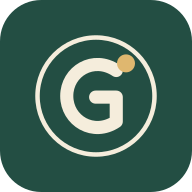
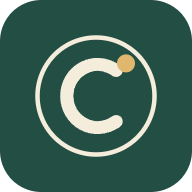
coeliac branding

diff --git a/src/client/App.tsx b/src/client/App.tsx
@@ -18,13 +18,13 @@ export function App({initial,path='/',search=''}:{initial:Bootstrap;path?:string
   useEffect(()=>{void refresh().catch(()=>{});setOffline(!navigator.onLine);const online=()=>setOffline(!navigator.onLine);const prompt=(e:Event)=>{e.preventDefault();setInstall(e);};window.addEventListener('online',online);window.addEventListener('offline',online);window.addEventListener('beforeinstallprompt',prompt);return()=>{window.removeEventListener('online',online);window.removeEventListener('offline',online);window.removeEventListener('beforeinstallprompt',prompt);};},[]);
   const links=[['/restaurants','Restaurants'],['/shops','Shops'],['/map','Map'],['/links','Useful links'],['/about','Our community']];
   if(member?.role==='admin')links.push(['/admin','Admin']);
-  return <><a className="skip-link" href="#main">Skip to content</a><header className="site-header"><div className="header-inner"><a href="/" className="brand" aria-label="glutenfree.mt home"><img className="brand-icon" src="/icon.svg" width="43" height="43" alt=""/><span>glutenfree.mt<span className="brand-locality">MALTA &amp; GOZO</span></span></a><nav className={menu?'main-nav open':'main-nav'} aria-label="Main navigation">{links.map(([href,label])=><a key={href} href={href} className={path===href?'active':''}>{label}</a>)}</nav><div className="header-actions"><a href="/suggest" className="button small-button"><Plus size={15}/> Add a place</a><a className="account-button" href="/account"><User size={17}/><span>{member?member.name.split(' ')[0]:'Sign in'}</span></a><button className="mobile-menu icon-button" onClick={()=>setMenu(!menu)} aria-label={menu?'Close navigation':'Open navigation'} aria-expanded={menu}>{menu?<X/>:<Menu/>}</button></div></div></header>
+  return <><a className="skip-link" href="#main">Skip to content</a><header className="site-header"><div className="header-inner"><a href="/" className="brand" aria-label="Coeliac.mt home"><img className="brand-icon" src="/icon.svg" width="43" height="43" alt=""/><span>Coeliac.mt<span className="brand-locality">MALTA &amp; GOZO</span></span></a><nav className={menu?'main-nav open':'main-nav'} aria-label="Main navigation">{links.map(([href,label])=><a key={href} href={href} className={path===href?'active':''}>{label}</a>)}</nav><div className="header-actions"><a href="/suggest" className="button small-button"><Plus size={15}/> Add a place</a><a className="account-button" href="/account"><User size={17}/><span>{member?member.name.split(' ')[0]:'Sign in'}</span></a><button className="mobile-menu icon-button" onClick={()=>setMenu(!menu)} aria-label={menu?'Close navigation':'Open navigation'} aria-expanded={menu}>{menu?<X/>:<Menu/>}</button></div></div></header>
     {offline&&<Notice>You’re offline. Connect to see current reviews and verification details.</Notice>}
     <main id="main">{path==='/'||path==='/map'?<Discover data={initial} path={path} search={search}/>:path.startsWith('/places/')?initial.detail?<PlacePage detail={initial.detail} member={member} adverts={initial.adverts} businessTypes={initial.business_types} glutenFreeItems={initial.gluten_free_item_catalog}/>:<NotFound/>:path.startsWith('/users/')?initial.profile?<PublicProfilePage profile={initial.profile}/>:<NotFound/>:path==='/account'?<Account member={member} data={initial} refresh={refresh}/>:path==='/suggest'?<div className="page narrow"><p className="eyebrow">PASS ON A GOOD FIND</p><h1>Make room for<br/><em>another place.</em></h1><PlaceForm member={member} businessTypes={initial.business_types} glutenFreeItems={initial.gluten_free_item_catalog}/></div>:path==='/moderation'?<Moderation member={member} data={initial}/>:path==='/admin'?<Admin member={member}/>:path==='/links'?<div className="page"><p className="eyebrow">A LITTLE HELP ALONG THE WAY</p><h1>Useful links.</h1><p className="lead">Local support, trusted organisations, and a few useful starting points.</p>{[...new Set(initial.links.map(l=>l.category))].map(category=><section className="detail-section" key={category}><h2>{category}</h2><div className="resource-grid">{initial.links.filter(l=>l.category===category).map(l=><a className="resource-card" key={l.id} href={l.url} target="_blank" rel="noreferrer"><BookOpen size={24}/><h3>{l.title}</h3><p>{l.description}</p><span className="text-link">Visit website <ArrowUpRight size={16}/></span></a>)}</div></section>)}</div>:path==='/about'?<About/>:path==='/privacy'?<Privacy/>:<NotFound/>}</main>
-    <footer className="site-footer"><div className="footer-main"><div><a href="/" className="footer-brand">glutenfree.mt<span>✳</span></a><p>Local knowledge. A shared table.<br/>Made for the coeliac community in Malta & Gozo.</p></div><div><p className="eyebrow">EXPLORE</p><a href="/">Find a place</a><a href="/links">Useful links</a><a href="/suggest">Suggest a place</a></div><div><p className="eyebrow">OUR COMMUNITY</p><a href="/about">About this project</a><a href="/privacy">Privacy & guidelines</a><button className="footer-install" onClick={async()=>{if(install){await install.prompt();setInstall(null);}else setInstallHelp(!installHelp);}}>Install on your phone ↗</button>{installHelp&&<p className="small">On iPhone, open your browser’s Share menu and choose Add to Home Screen. On Android, look for Install app in your browser menu.</p>}</div></div><div className="footer-bottom"><p>Independent and community-run. Not affiliated with CAM. Always confirm your requirements with the restaurant.</p><span>Shared with care <Heart size={13}/></span></div></footer>
+    <footer className="site-footer"><div className="footer-main"><div><a href="/" className="footer-brand">Coeliac.mt<span>✳</span></a><p>Local knowledge. A shared table.<br/>Made for the coeliac community in Malta & Gozo.</p></div><div><p className="eyebrow">EXPLORE</p><a href="/">Find a place</a><a href="/links">Useful links</a><a href="/suggest">Suggest a place</a></div><div><p className="eyebrow">OUR COMMUNITY</p><a href="/about">About this project</a><a href="/privacy">Privacy & guidelines</a><button className="footer-install" onClick={async()=>{if(install){await install.prompt();setInstall(null);}else setInstallHelp(!installHelp);}}>Install on your phone ↗</button>{installHelp&&<p className="small">On iPhone, open your browser’s Share menu and choose Add to Home Screen. On Android, look for Install app in your browser menu.</p>}</div></div><div className="footer-bottom"><p>Independent and community-run. Not affiliated with CAM. Always confirm your requirements with the restaurant.</p><span>Shared with care <Heart size={13}/></span></div></footer>
     <nav className="bottom-nav" aria-label="Mobile navigation">{([['/','Discover',Compass],['/map','Map',Map],['/links','Useful links',BookOpen],['/account','Account',User]] as const).map(([href,label,Icon])=><a href={href} key={href} className={path===href?'active':''}><Icon size={20}/><span>{label}</span></a>)}</nav>
   </>;
 }
 function NotFound(){return <div className="page empty-state"><h1>We couldn’t find that page.</h1><p>There’s still a whole island of places to explore.</p><a className="button primary" href="/">Back to the directory</a></div>;}
-function About(){return <article className="page prose"><p className="eyebrow">LOCAL KNOWLEDGE, SHARED</p><h1>A place at<br/><em>the table.</em></h1><p className="lead">glutenfree.mt is an independent community project helping people find places that cater for coeliacs in Malta and Gozo.</p><h2>Built from community experience</h2><p>This directory began as a shared list of places and feedback. We keep the original comments labelled as imported community feedback, without inventing dates or ratings. New community reviews, photos, and owner replies are checked by moderators before they appear. Admin contributions publish immediately.</p><h2 id="verification">What “Verified by CAM” means here</h2><p>Site admins manually record whether a place has CAM verification. The badge is separate from community ratings and verified restaurant ownership. This website is not run by or affiliated with CAM. Check the displayed verification date and confirm your requirements directly with the business.</p><h2>Honest experiences, useful details</h2><p>A star rating describes a member’s overall visit. It is not a safety certification. Details about menus and preparation come from community contributions and can change. Both positive and negative experiences are welcome.</p><h2>Owners are part of the conversation</h2><p>Admins manually verify restaurant representatives. Owners can reply to feedback on their linked places; replies are labelled and moderated. They cannot change other people’s reviews or verify their own business.</p><h2>Keeping it going</h2><p>Occasional clearly labelled adverts may help cover running costs. Sponsorship does not change rankings, ratings, or verification.</p><a className="button primary" href="/suggest">Share a place <ArrowUpRight size={16}/></a></article>;}
+function About(){return <article className="page prose"><p className="eyebrow">LOCAL KNOWLEDGE, SHARED</p><h1>A place at<br/><em>the table.</em></h1><p className="lead">Coeliac.mt is an independent community project helping people find places that cater for coeliacs in Malta and Gozo.</p><h2>Built from community experience</h2><p>This directory began as a shared list of places and feedback. We keep the original comments labelled as imported community feedback, without inventing dates or ratings. New community reviews, photos, and owner replies are checked by moderators before they appear. Admin contributions publish immediately.</p><h2>Honest experiences, useful details</h2><p>A star rating describes a member’s overall visit. It is not a safety certification. Details about menus and preparation come from community contributions and can change. Both positive and negative experiences are welcome.</p><h2>Owners are part of the conversation</h2><p>Admins manually verify restaurant representatives. Owners can reply to feedback on their linked places; replies are labelled and moderated. They cannot change other people’s reviews or verify their own business.</p><h2>Keeping it going</h2><p>Occasional clearly labelled adverts may help cover running costs. Sponsorship does not change rankings, ratings, or verification.</p><a className="button primary" href="/suggest">Share a place <ArrowUpRight size={16}/></a></article>;}
 function Privacy(){return <article className="page prose"><p className="eyebrow">COMMUNITY GUIDELINES</p><h1>Share with care.</h1><h2>What we ask of contributors</h2><p>Describe your own experience honestly. Be specific and respectful, avoid personal attacks, and upload only photos you have permission to share. Do not include anyone’s private contact details or health information in public feedback. Owners must not review their own businesses.</p><h2>Before your contribution appears</h2><p>Community reviews, photos, new places, corrections, and owner replies need moderator approval. Admin contributions publish immediately. Edits are checked again; the previous approved version stays visible while an edit is pending. You can report published content for review.</p><h2>Your account and contributions</h2><p>We store your email, display name, sign-in information, and contributions to operate your account and moderate the directory. Your display name is public beside approved feedback; your email and ownership-check details are private. Admins can access account information to manage the community.</p><h2>Your profile</h2><p>Your display name and avatar are public, including on previous reviews and owner replies. Profile changes appear immediately. Conditions and symptom frequency are optional, self-reported information. They remain private unless you choose to share them on your public profile. You can stop sharing, clear your answers, change your avatar, or remove your uploaded photo in Account. Uploaded avatars are cropped and re-encoded to remove metadata; we store only a small version, never your original. Replaced or deleted avatar files are removed, with failed removals retried by the daily cleanup. Deleting your account removes its profile and health answers.</p><h2>Photos and location</h2><p>Photos are resized and re-encoded to remove metadata before storage. Your device location is requested only when you select Near me and is used in your browser for approximate distances. It is not saved to your profile.</p><h2>Cookies and external services</h2><p>Sign-in uses essential session cookies. Google sign-in, external map providers, restaurant links, and sponsor links involve the respective providers. We do not include advertising trackers or analytics scripts.</p><h2>Removing your data</h2><p>Use Account to withdraw pending submissions, remove reviews from public view, or delete your account. Account deletion removes your login and public personal contributions; rejected photos are cleaned up by a daily job. Minimal moderation records may remain without your account identity.</p><p className="notice">Before public launch, the community operator must add their contact details and final retention policy here.</p></article>;}

diff --git a/src/client/PlacePage.tsx b/src/client/PlacePage.tsx
@@ -17,7 +17,7 @@ export function PlacePage({detail,member,adverts,businessTypes,glutenFreeItems}:
     <div className="detail-photo">{cover?<img src={`/photos/${cover.id}`} alt={cover.caption}/>:<Illustration type={p.type} large/>}<button className="button photo-button" onClick={()=>setModal({kind:'photo'})}><Camera size={16}/> Add photos</button></div>
     {owner&&<CoverForm admin={member?.role==='admin'} placeId={p.id} photos={detail.photos} currentPhoto={cover?.id}/>}
     {(detail.photos.length>1||(member?.role==='admin'&&detail.photos.length>0))&&<div className="photo-gallery">{detail.photos.map(ph=><figure key={ph.id}><a href={`/photos/${ph.id}`} target="_blank" rel="noreferrer"><img src={`/photos/${ph.id}?size=thumb`} alt={ph.caption} loading="lazy"/></a><figcaption>{ph.caption} <button aria-label="Report photo" onClick={()=>setModal({kind:'report',id:ph.id,target:'photo'})}><Flag size={12}/></button>{member?.role==='admin'&&<DeletePhotoButton id={ph.id} caption={ph.caption}/>}</figcaption></figure>)}</div>}
-    <div className="detail-layout"><div>{p.description&&<section className="detail-section"><h2>About this place</h2><p className="place-description">{p.description}</p></section>}<section className="detail-section"><p className="eyebrow">BEFORE YOU BOOK</p><h2>Good to know</h2><div className="info-note"><ShieldCheck size={22}/><div><strong>Gluten-free menu information</strong><ul className="menu-summary">{(p.menu_options||['unknown']).map(value=><li key={value}>{value==='unknown'?'Menu options not yet confirmed':MENU_OPTIONS.find(option=>option.value===value)?.label}</li>)}</ul>{p.menu_info&&<p>{p.menu_info}</p>}<span className="small muted">Community-provided information. Confirm your requirements with the place when booking.</span></div></div>{!!p.cam_verified&&<p className="small muted">CAM status manually checked by a site admin on {p.cam_verified_at?.slice(0,10)}. This community website is independent of CAM. <a href="/about#verification">About verification</a></p>}</section>
+    <div className="detail-layout"><div>{p.description&&<section className="detail-section"><h2>About this place</h2><p className="place-description">{p.description}</p></section>}<section className="detail-section"><p className="eyebrow">BEFORE YOU BOOK</p><h2>Good to know</h2><div className="info-note"><ShieldCheck size={22}/><div><strong>Gluten-free menu information</strong><ul className="menu-summary">{(p.menu_options||['unknown']).map(value=><li key={value}>{value==='unknown'?'Menu options not yet confirmed':MENU_OPTIONS.find(option=>option.value===value)?.label}</li>)}</ul>{p.menu_info&&<p>{p.menu_info}</p>}<span className="small muted">Community-provided information. Confirm your requirements with the place when booking.</span></div></div>{!!p.cam_verified&&<p className="small muted">CAM status manually checked by a site admin on {p.cam_verified_at?.slice(0,10)}. This community website is independent of CAM.</p>}</section>
     <section className="detail-section"><div className="section-heading"><div><p className="eyebrow">FROM OUR COMMUNITY</p><h2>Experiences at the table</h2></div><span className="review-count">{detail.feedback.length}</span></div>{!detail.feedback.length&&<div className="empty-state compact"><MessageCircle/><h3>Be the first to share</h3><p>A few words about your visit can help the next person.</p></div>}{detail.feedback.map(f=><article className="review" key={f.id}><div className="review-heading">{f.kind==='imported'&&<div className="avatar">✳</div>}<div><AuthorIdentity author={f.kind==='imported'?null:f.author} name={f.kind==='imported'?'Imported community feedback':f.author_name}/>{f.kind==='review'&&!!f.author?.conditions?.length&&<p className="small muted">Dietary conditions: {f.author.conditions.join(' ? ')}</p>}<p className="small muted">{f.kind==='imported'?'From the original community directory':f.visit_date?`Visited ${f.visit_date}`:'Community review'}</p></div>{f.rating!==null&&<Rating rating={f.rating}/>}</div><p className="review-body">{f.body}</p><div className="review-actions">{owner&&<button onClick={()=>setModal({kind:'reply',id:f.id})}><MessageCircle size={14}/> Reply as owner</button>}<button onClick={()=>setModal({kind:'report',id:f.id,target:'feedback'})}><Flag size={13}/> Report</button></div>{detail.replies.filter(r=>r.feedback_id===f.id).map(r=><div className="owner-reply" key={r.id}><div className="reply-identity"><AuthorIdentity author={r.author} name={r.author_name}/><span className="badge">Owner reply</span></div><p>{r.body}</p><button className="text-link small" onClick={()=>setModal({kind:'report',id:r.id,target:'reply'})}>Report reply</button></div>)}</article>)}</section><Sponsor ad={adverts.find(a=>a.placement==='detail')}/></div>
     <aside className="place-sidebar">{!!detail.branches?.length&&<section className="sidebar-card"><h3>Other locations</h3><p className="small">Reviews and verification apply to each branch separately.</p>{detail.branches.map(branch=><a className="sidebar-link" key={branch.id} href={`/places/${branch.slug}`}>{branch.branch_name||branch.locality||branch.name} <ArrowUpRight size={16}/></a>)}</section>}<section className="sidebar-card"><h3>Visit or order</h3>{p.premises==='none'&&<p>No public premises</p>}{!!p.services?.length&&<p>{p.services.join(' · ')}</p>}{p.advance_orders==='yes'&&<p>Advance orders required</p>}{p.advance_orders==='no'&&<p>Advance orders not required</p>}{p.ordering_info&&<p className="preserve-lines">{p.ordering_info}</p>}<p className="price-large">{p.price_applicability==='not_applicable'?'':p.price_min===null?'Price to be confirmed':'€'.repeat(priceBand(p.price_max??p.price_min))}</p><p>{priceLabel(p)}</p>{p.price_applicability!=='not_applicable'&&p.price_min!==null&&<p className="small muted">{p.price_basis}. Estimate updated {p.price_updated?.slice(0,10)||'date unknown'}.</p>}<hr/><p className="location"><MapPin size={17}/>{p.address||p.locality||'Address to be confirmed'}, {p.island}</p>{p.premises!=='none'&&<a className="button full" href={directions} target="_blank" rel="noreferrer">Open Google Maps <ArrowUpRight size={16}/></a>}{([['website','Website'],['menu_url','View menu'],['social_url','Social page']] as const).map(([key,label])=>p[key]&&<a className="sidebar-link" key={key} href={p[key]} target="_blank" rel="noreferrer">{label}<ArrowUpRight size={16}/></a>)}{p.phone&&<a className="sidebar-link" href={`tel:${p.phone.replace(/[^+\d]/g,'')}`}>Call the place <Phone size={16}/></a>}</section><section className="sidebar-card soft"><h3>Keep local knowledge growing</h3><p className="small">Something changed? Help keep this place up to date.</p><button className="text-link" onClick={()=>setModal({kind:'correction'})}>{owner?'Edit place details':'Suggest a correction'} <Pencil size={14}/></button></section>{!owner&&<button className="owner-claim" onClick={()=>setModal({kind:'owner_claim'})}>Is this your business? Request owner access</button>}</aside></div>
     {modal&&<Modal title={({review:'Share your experience',photo:'Share a photo',reply:'Reply as the owner',report:'Report content',correction:owner?'Edit place details':'Suggest a correction',owner_claim:'Verify your owner access'} as Record<string,string>)[modal.kind]} onClose={()=>setModal(null)}>{!member?<SignInPrompt/>:modal.kind==='review'?owner?<Notice>Owners cannot rate their own businesses. You can reply to community feedback instead.</Notice>:<ReviewForm admin={member?.role==='admin'} place={p}/>:modal.kind==='photo'?<PhotoForm admin={member?.role==='admin'} placeId={p.id}/>:modal.kind==='correction'?<PlaceForm member={member} place={p} businessTypes={businessTypes} glutenFreeItems={glutenFreeItems}/>:<MessageForm admin={member?.role==='admin'} kind={modal.kind as 'reply'|'report'|'owner_claim'} placeId={p.id} targetId={modal.id} targetType={modal.target}/>}</Modal>}

diff --git a/src/client/Discover.tsx b/src/client/Discover.tsx
@@ -24,9 +24,9 @@ export function Discover({data,path,search}:{data:Bootstrap;path:string;search:s
   }),[categoryPlaces,filters,sort,position,data.gluten_free_item_catalog]);
   const qs=new URLSearchParams();for(const [k,v]of Object.entries(filters))if(v)qs.set(k,String(v));
   function nearMe(){setGeoError('');if(!navigator.geolocation){setGeoError('Location is unavailable in this browser. Choose a locality instead.');return;}setLocating(true);navigator.geolocation.getCurrentPosition(p=>{setPosition({lat:p.coords.latitude,lng:p.coords.longitude});setSort('nearby');setLocating(false);if(!data.places.some(p=>p.coordinates_checked))setGeoError('Your location is ready. Business map pins still need checking; browse by locality for now.');},()=>{setLocating(false);setGeoError('Location was unavailable or not allowed. You can still search by locality.');},{timeout:10000,maximumAge:60000});}
-  const heading=category==='shop'?'Gluten-free shops and suppliers in Malta & Gozo':category==='restaurant'?'Gluten-free restaurants and places to eat in Malta & Gozo':'Gluten-free places in Malta & Gozo';
+  const heading=category==='shop'?'Coeliac-friendly shops and suppliers in Malta & Gozo':category==='restaurant'?'Coeliac-friendly restaurants and places to eat in Malta & Gozo':'Coeliac-friendly places in Malta & Gozo';
   return <>
-    <section id="discover" className="discover"><header className="directory-intro"><h1>{heading}</h1><p>Find safe places for celiacs to eat, shop, and order gluten free food, with experiences shared by the coeliac community.</p></header>
+    <section id="discover" className="discover"><header className="directory-intro"><h1>{heading}</h1><p>Discover places to eat, shop and order food, with experiences shared by the coeliac community.</p></header>
       <div className="search-bar"><label className="search-input"><Search size={20}/><span className="sr-only">Search places</span><input placeholder="A place, locality or gluten-free food…" value={filters.q} onChange={e=>update({q:e.target.value})}/>{filters.q&&<button aria-label="Clear search" onClick={()=>update({q:''})}><X size={16}/></button>}</label><button className="near-button" onClick={nearMe} disabled={locating}><Navigation size={17}/>{locating?'Locating…':'Near me'}</button></div>
       <div className="filter-row"><div className="island-tabs" aria-label="Filter by island">{['','Malta','Gozo'].map(i=><button key={i} className={filters.island===i?'active':''} onClick={()=>update({island:i,locality:''})}>{i||'Both islands'}</button>)}</div><label className="filter-select"><span className="sr-only">Locality</span><select value={filters.locality} onChange={e=>update({locality:e.target.value})}><option value="">All localities</option>{localities.map(l=><option key={l}>{l}</option>)}</select></label><button className={`filter-button ${advanced?'active':''}`} onClick={()=>setAdvanced(!advanced)} aria-expanded={advanced}><SlidersHorizontal size={16}/> More filters</button></div>
       {advanced&&<div className="advanced-filters">{([['cuisine','Cuisine',CUISINES],['type','Business type',catalog.map(t=>t.key)],['service','Service',SERVICES],['price','Price band',['1','2','3','4']]] as const).map(([key,label,options])=><label key={key}>{label}<select value={filters[key]} onChange={e=>update({[key]:e.target.value})}><option value="">Any {label.toLowerCase()}</option>{options.map(o=><option key={o} value={o}>{key==='price'?'€'.repeat(Number(o)):data.business_types?.find(t=>t.key===o)?.label||o}</option>)}</select></label>)}{category!=='shop'&&<label>Gluten-free item<select value={filters.item} onChange={e=>update({item:e.target.value})}><option value="">Any gluten-free item</option>{data.gluten_free_item_catalog?.map(item=><option key={item.key} value={item.key}>{item.label}</option>)}</select></label>}<button className="text-link" onClick={()=>update({q:'',island:'',locality:'',cuisine:'',type:'',service:'',price:'',item:''})}>Clear all filters</button><p className="small muted">Price bands: € under €15 · €€ €15–24 · €€€ €25–39 · €€€€ €40+. Main meal, excluding drinks; estimates may vary.</p></div>}

diff --git a/public/offline.html b/public/offline.html
@@ -1,1 +1,1 @@
-<!doctype html><html lang="en"><head><meta charset="utf-8"><meta name="viewport" content="width=device-width,initial-scale=1"><meta name="theme-color" content="#234e43"><title>Offline — glutenfree.mt</title><style>body{background:#f8f6f0;color:#234e43;font:17px/1.7 system-ui;margin:0}main{max-width:480px;margin:15vh auto;padding:28px}h1{font:600 40px system-ui}a,button{color:inherit}button{padding:12px 20px;border:1px solid;border-radius:8px;background:transparent;font:inherit}</style></head><body><main><img src="/icon.svg" width="64" height="64" alt="glutenfree.mt"><h1>A little out of reach.</h1><p>You’re offline. Connect again to see current restaurant information, reviews, and CAM verification.</p><button onclick="location.reload()">Try again</button><p><a href="/links">Previously visited useful links</a></p></main></body></html>
+<!doctype html><html lang="en-GB"><head><meta charset="utf-8"><meta name="viewport" content="width=device-width,initial-scale=1"><meta name="theme-color" content="#234e43"><title>Offline — Coeliac.mt</title><style>body{background:#f8f6f0;color:#234e43;font:17px/1.7 system-ui;margin:0}main{max-width:480px;margin:15vh auto;padding:28px}h1{font:600 40px system-ui}a,button{color:inherit}button{padding:12px 20px;border:1px solid;border-radius:8px;background:transparent;font:inherit}</style></head><body><main><img src="/icon.svg" width="64" height="64" alt="Coeliac.mt"><h1>A little out of reach.</h1><p>You’re offline. Connect again to see current restaurant information, reviews, and CAM verification.</p><button onclick="location.reload()">Try again</button><p><a href="/links">Previously visited useful links</a></p></main></body></html>

diff --git a/tests/place-editing.e2e.ts b/tests/place-editing.e2e.ts
@@ -324,9 +324,9 @@ test('compact directory introduction keeps search visible on desktop and mobile'
 }, testInfo) => {
   await setup(page);
   for (const [path, heading] of [
-    ['/', 'Gluten-free restaurants and places to eat in Malta & Gozo'],
-    ['/restaurants', 'Gluten-free restaurants and places to eat in Malta & Gozo'],
-    ['/map', 'Gluten-free places in Malta & Gozo'],
+    ['/', 'Coeliac-friendly restaurants and places to eat in Malta & Gozo'],
+    ['/restaurants', 'Coeliac-friendly restaurants and places to eat in Malta & Gozo'],
+    ['/map', 'Coeliac-friendly places in Malta & Gozo'],
   ]) {
     for (const width of [1280, 768, 375, 320]) {
       await page.setViewportSize({ width, height: 800 });
@@ -335,7 +335,7 @@ test('compact directory introduction keeps search visible on desktop and mobile'
         heading,
       );
       await expect(page.locator('.directory-intro p')).toHaveText(
-        'Find safe places for celiacs to eat, shop, and order gluten free food, with experiences shared by the coeliac community.',
+        'Discover places to eat, shop and order food, with experiences shared by the coeliac community.',
       );
       await expect(page.locator('.welcome-panel, .hero-scene, .community-strip')).toHaveCount(0);
       await expect(page.getByRole('link', { name: 'Find your next favourite' })).toHaveCount(0);

diff --git a/src/server/auth.ts b/src/server/auth.ts
@@ -25,7 +25,7 @@ export function createAuth(env: Bindings, requestUrl?: string) {
           return;
         }
         if (!env.RESEND_API_KEY || !env.EMAIL_FROM) throw new Error('Email sign-in is not configured');
-        const response = await fetch('https://api.resend.com/emails', { method: 'POST', headers: { Authorization: `Bearer ${env.RESEND_API_KEY}`, 'Content-Type': 'application/json' }, body: JSON.stringify({ from: env.EMAIL_FROM, to: email, subject: 'Your glutenfree.mt sign-in link', text: `Sign in to glutenfree.mt:\n\n${url}\n\nThis link expires in 10 minutes. If you did not request it, ignore this email.` }) });
+        const response = await fetch('https://api.resend.com/emails', { method: 'POST', headers: { Authorization: `Bearer ${env.RESEND_API_KEY}`, 'Content-Type': 'application/json' }, body: JSON.stringify({ from: env.EMAIL_FROM, to: email, subject: 'Your Coeliac.mt sign-in link', text: `Sign in to Coeliac.mt:\n\n${url}\n\nThis link expires in 10 minutes. If you did not request it, ignore this email.` }) });
         if (!response.ok) throw new Error('Unable to send sign-in email');
       },
     })],

diff --git a/src/server/index.tsx b/src/server/index.tsx
@@ -25,7 +25,7 @@ app.get('*',async c=>{
   const initial=await bootstrap(c.env,c.req.url);
   const template=await c.env.ASSETS.fetch(new Request(new URL('/index.html',c.req.url)));
   if(!template.ok)return c.text('Run npm run build before starting the production preview.',503);
-  const title=initial.profile?`${initial.profile.name} — glutenfree.mt`:initial.detail?`${initial.detail.place.name} — glutenfree.mt`:'glutenfree.mt — Good food. Shared knowledge.';
+  const title=initial.profile?`${initial.profile.name} — Coeliac.mt`:initial.detail?`${initial.detail.place.name} — Coeliac.mt`:'Coeliac.mt — Coeliac-friendly restaurants in Malta & Gozo';
   const markup=renderToString(<App initial={initial} path={path} search={new URL(c.req.url).search}/>);
   const json=JSON.stringify(initial).replace(/</g,'\\u003c');
   const html=(await template.text()).replace(/<title>.*?<\/title>/,`<title>${escape(title)}</title>`).replace('<!--app-->',markup).replace('<!--bootstrap-->',`<script>window.__BOOTSTRAP__=${json}</script>`);

diff --git a/index.html b/index.html
@@ -1,14 +1,14 @@
 <!doctype html>
-<html lang="en">
+<html lang="en-GB">
   <head>
     <meta charset="UTF-8" />
     <meta name="viewport" content="width=device-width, initial-scale=1" />
     <meta name="theme-color" content="#234e43" />
-    <meta name="description" content="Find places to eat gluten free in Malta and Gozo. An independent directory built by the coeliac community." />
+    <meta name="description" content="Find coeliac-friendly restaurants, shops and places to eat in Malta and Gozo, with experiences shared by the coeliac community." />
     <link rel="icon" href="/icon.svg" type="image/svg+xml" />
     <link rel="apple-touch-icon" href="/icon-192.png" />
     <link rel="manifest" href="/manifest.webmanifest" />
-    <title>glutenfree.mt — Good food. Shared knowledge.</title>
+    <title>Coeliac.mt — Coeliac-friendly restaurants in Malta & Gozo</title>
   </head>
   <body><div id="root"><!--app--></div><!--bootstrap--><script type="module" src="/src/client/main.tsx"></script></body>
 </html>

diff --git a/src/server/api.ts b/src/server/api.ts
@@ -170,5 +170,5 @@ api.post('/admin/adverts',async c=>{const raw=await c.req.json();const v=adSchem
 api.get('/admin/export',async c=>{
   const rows=(await c.env.DB.prepare('SELECT * FROM places ORDER BY name').all()).results;
   const csv=(v:unknown)=>`"${String(v??'').replace(/^[=+@-]/,"'$&").replaceAll('"','""')}"`;
-  const keys=Object.keys(rows[0]||{});c.header('Content-Disposition','attachment; filename="glutenfree-mt-places.csv"');c.header('Content-Type','text/csv; charset=utf-8');return c.body('\uFEFF'+[keys.map(csv).join(','),...rows.map(r=>keys.map(k=>csv(r[k])).join(','))].join('\r\n'));
+  const keys=Object.keys(rows[0]||{});c.header('Content-Disposition','attachment; filename="coeliac-mt-places.csv"');c.header('Content-Type','text/csv; charset=utf-8');return c.body('\uFEFF'+[keys.map(csv).join(','),...rows.map(r=>keys.map(k=>csv(r[k])).join(','))].join('\r\n'));
 });

diff --git a/public/sw.js b/public/sw.js
@@ -1,4 +1,4 @@
-const CACHE = 'glutenfree-mt-shell-v2';
+const CACHE = 'coeliac-mt-shell-v3';
 const SHELL = ['/offline.html', '/icon.svg', '/icon-192.png', '/manifest.webmanifest'];
 self.addEventListener('install', event => { event.waitUntil(caches.open(CACHE).then(cache => cache.addAll(SHELL))); self.skipWaiting(); });
 self.addEventListener('activate', event => { event.waitUntil(caches.keys().then(keys => Promise.all(keys.filter(key => key !== CACHE).map(key => caches.delete(key)))).then(() => self.clients.claim())); });

diff --git a/README.md b/README.md
@@ -1,6 +1,8 @@
-# glutenfree.mt
+# Coeliac.mt
 
-An independent community directory for Malta and Gozo. The current brand and primary domain are **glutenfree.mt**. Configuration also allows `https://coeliac.mt` during the domain transition; both domains must be connected to the Worker. The implementation uses React and Vite for the client, Hono on Cloudflare Workers, D1 for records, R2 for photos, and Better Auth for email links and Google sign-in. Product decisions and launch scope remain in [PLAN.md](PLAN.md).
+Coeliac-friendly restaurants, shops and places to eat in Malta and Gozo. **Coeliac.mt** is an independent community directory. Both `https://glutenfree.mt` and `https://coeliac.mt` are supported during the domain transition; both domains must be connected to the Worker. The implementation uses React and Vite for the client, Hono on Cloudflare Workers, D1 for records, R2 for photos, and Better Auth for email links and Google sign-in. Product decisions and launch scope remain in [PLAN.md](PLAN.md).
+
+Site copy uses British English and the spelling **coeliac**. The header, page titles, sign-in emails, offline page and installable app use the Coeliac.mt brand. The C monogram lives in `public/icon.svg`; regenerate the 192px and 512px install icons with `node scripts/generate-icons.mjs` after editing it. This uses the existing Playwright dependency and installed Edge on Windows, or Playwright Chromium elsewhere. The service-worker cache version changes with the branding so returning visitors receive the updated offline assets. This branding update does not change domain routing or require a database migration.
 
 `APP_URL` accepts one origin or a comma-separated list, such as `https://glutenfree.mt,https://coeliac.mt`. The first origin is used in the sitemap. Authentication uses the visited listed origin, and both origins are allowed to submit changes. Accounts and data are shared, but sign-in cookies remain separate for each domain. See [the domain transition steps](DEPLOYMENT.md#multiple-domains-and-the-coeliacmt-transition) for DNS and Google configuration. No schema migration or additional storage is needed.
 
